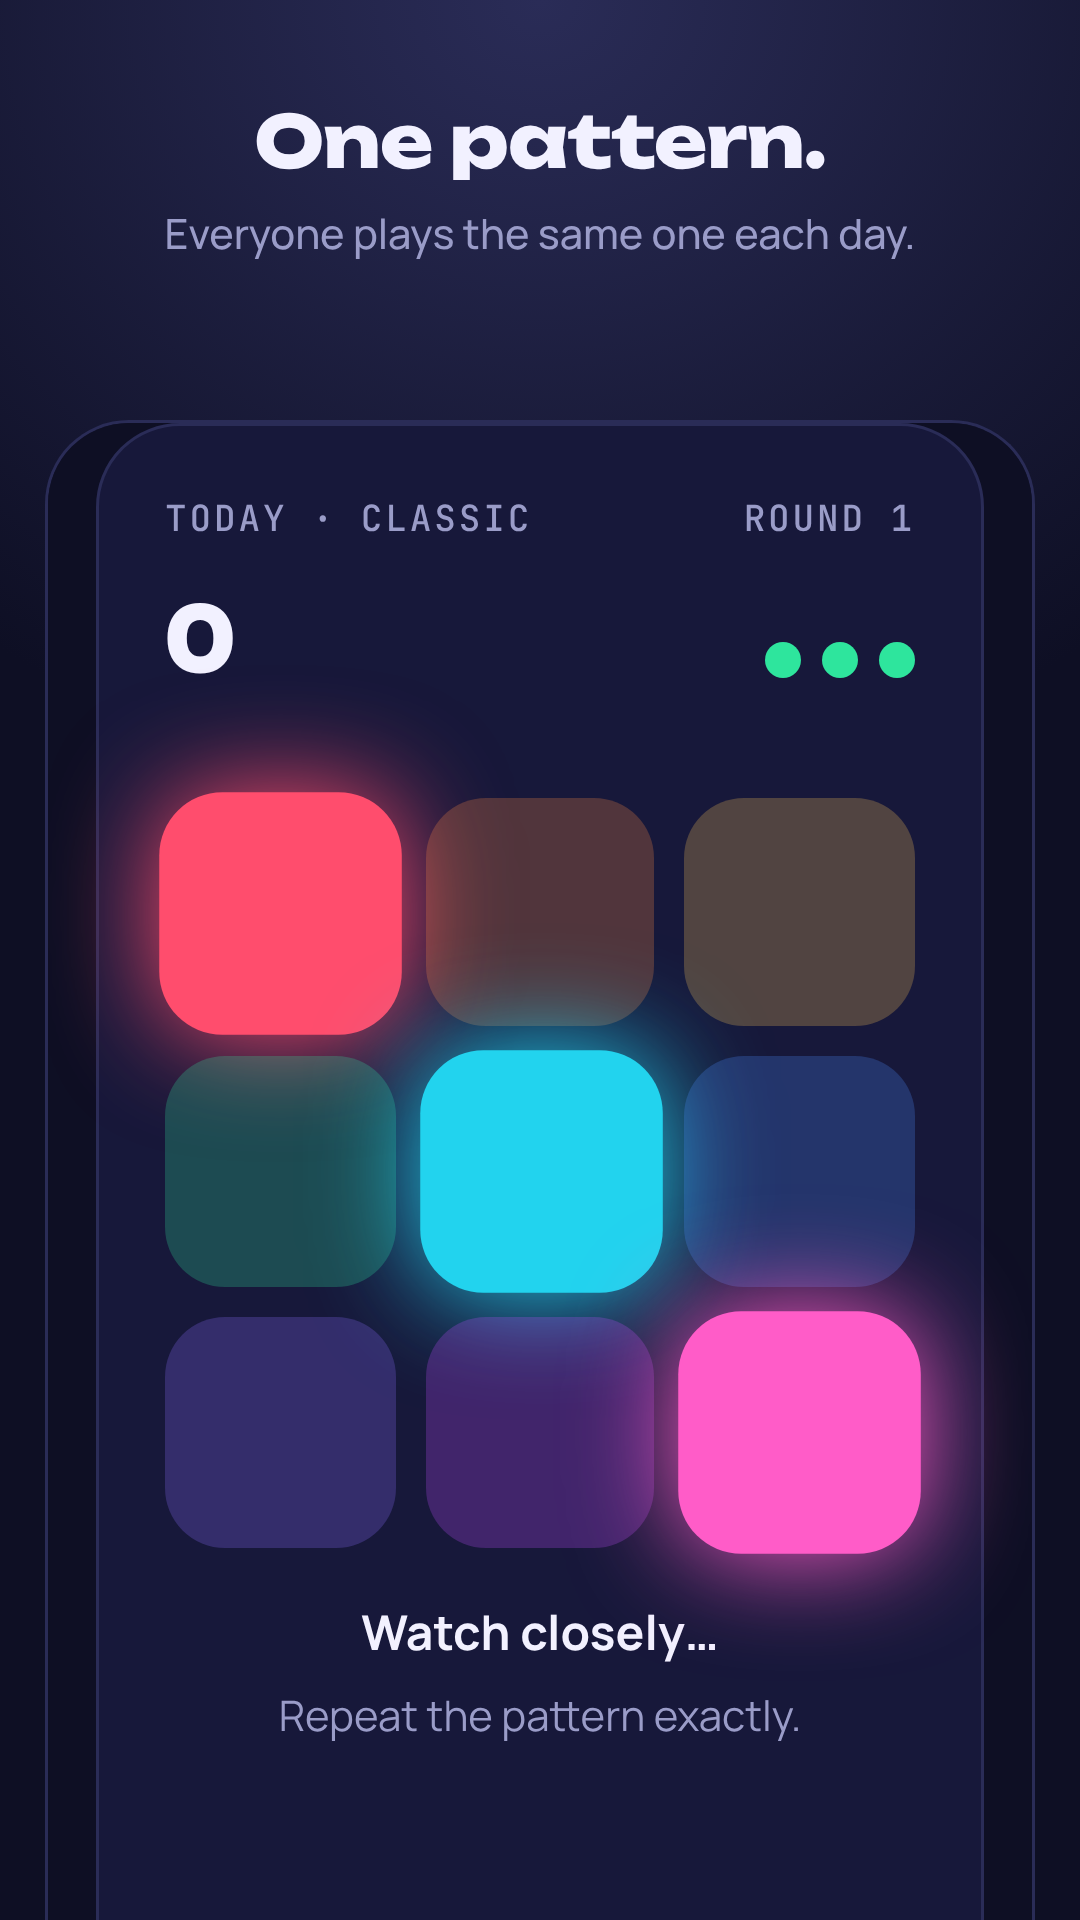
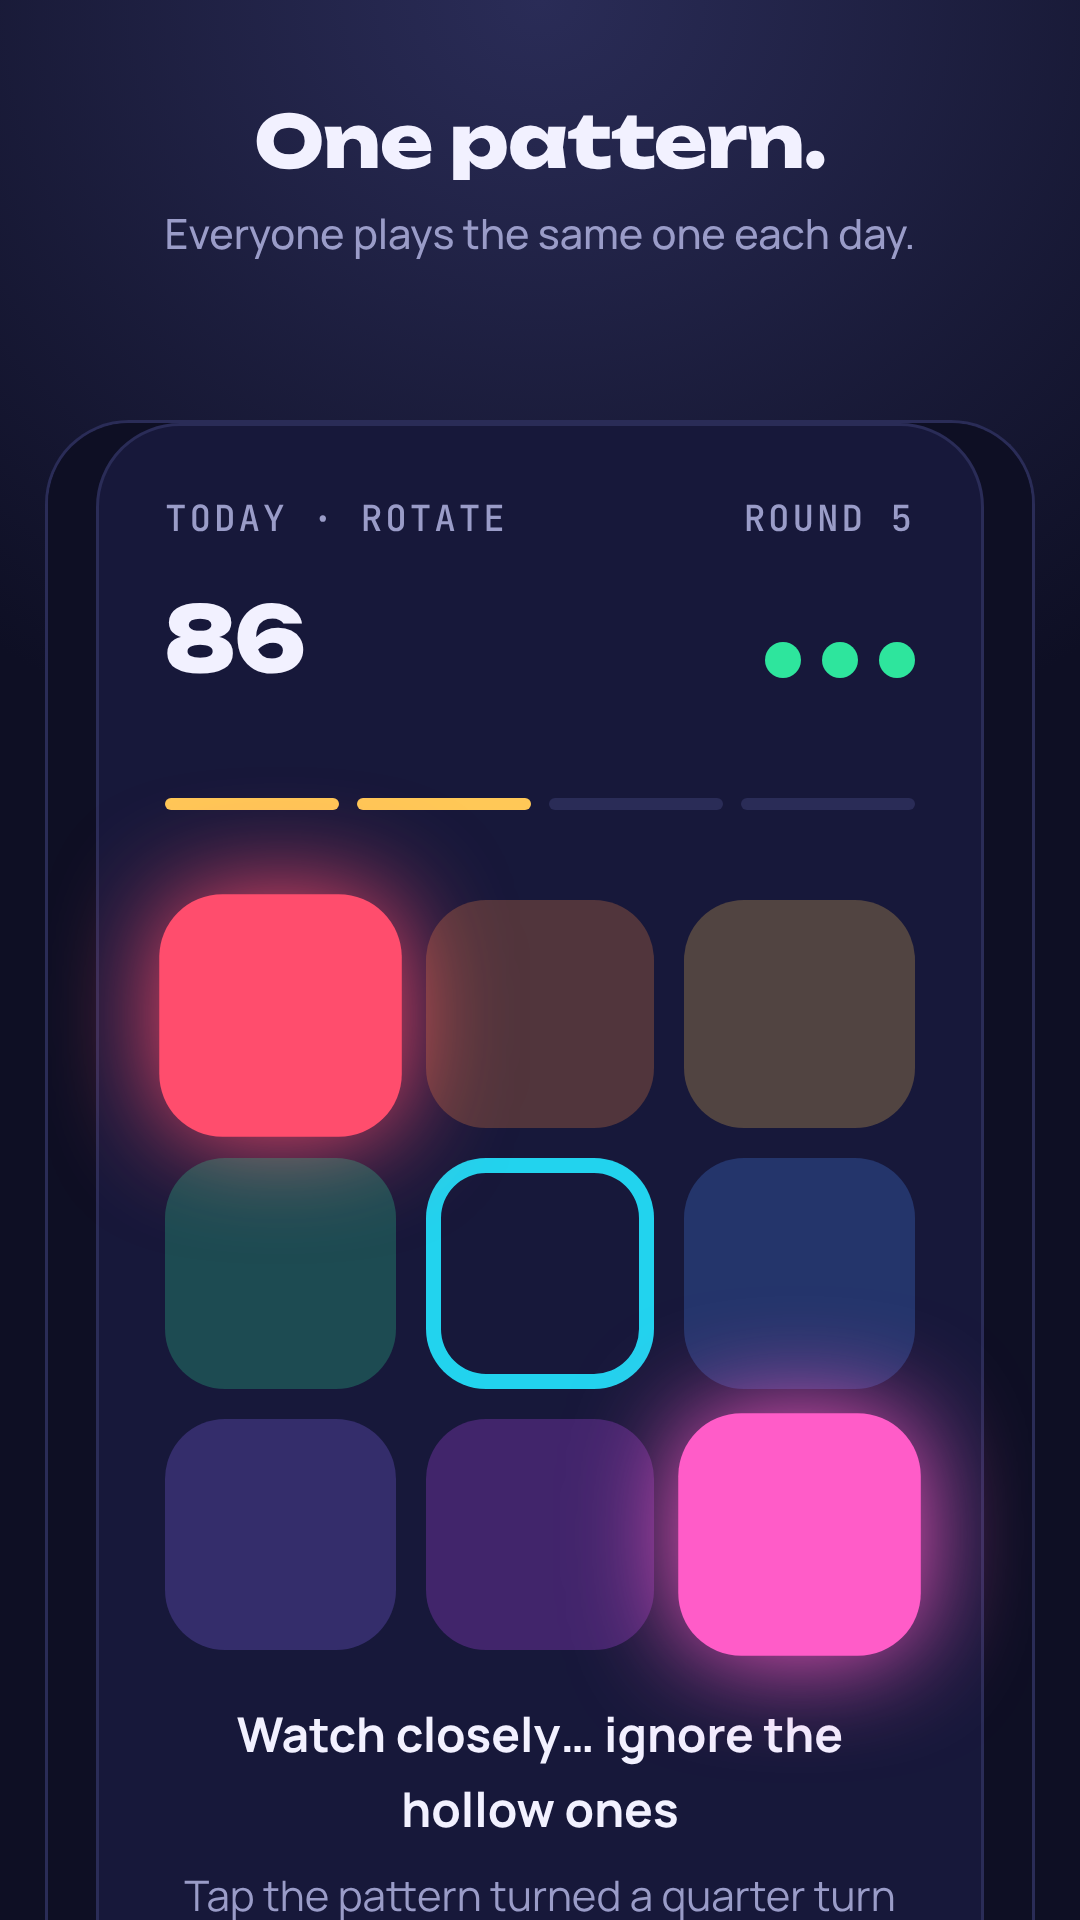
Refresh store screenshots and description for the harder gameplay
Adds a stages screenshot, shows a decoy and the stage bar on the play
screenshot, and lists Rotate, Blackout and the four stages in the store text.

Claude-Session: https://claude.ai/code/session_019E2Xh9amZt9J2EVB8M7UxR

Changed region(s): [[0.0917, 0.3125, 0.9167, 1.0], [0.3361, 0.25, 0.4889, 0.2812], [0.825, 0.25, 0.8556, 0.2812]]

diff --git a/app/store/listing.md b/app/store/listing.md
@@ -32,12 +32,17 @@ PULSE is a one-minute memory game with a new pattern every day.
 Watch nine glowing pads flash in sequence, then tap them back. Each round adds one more step. Miss three and your run is over. Everyone plays the same pattern on the same day, so you can compare scores with friends.
 
 A NEW TWIST EVERY DAY
-Each day brings a rule change that keeps you on your toes:
+Each day brings one of seven rule changes that keep you on your toes:
 • Classic: repeat the pattern exactly
 • Mirror: tap the mirror image, left and right swapped
 • Reverse: play it backwards, last pad first
 • Ghost: flashes are lightning quick
 • Surge: everything runs 40% faster
+• Rotate: tap the pattern turned a quarter turn
+• Blackout: every pad goes grey, so remember positions, not colours
+
+IT GETS HARDER THE LONGER YOU LAST
+Every run climbs through four stages. After a warm-up, hollow decoy flashes sneak in. Then a second twist stacks on the first, and from round 10 every tap is on a shrinking timer.
 
 BUILT TO BE SHARED
 Your run becomes a grid of green and red squares you can paste into any group chat without spoiling the pattern.
